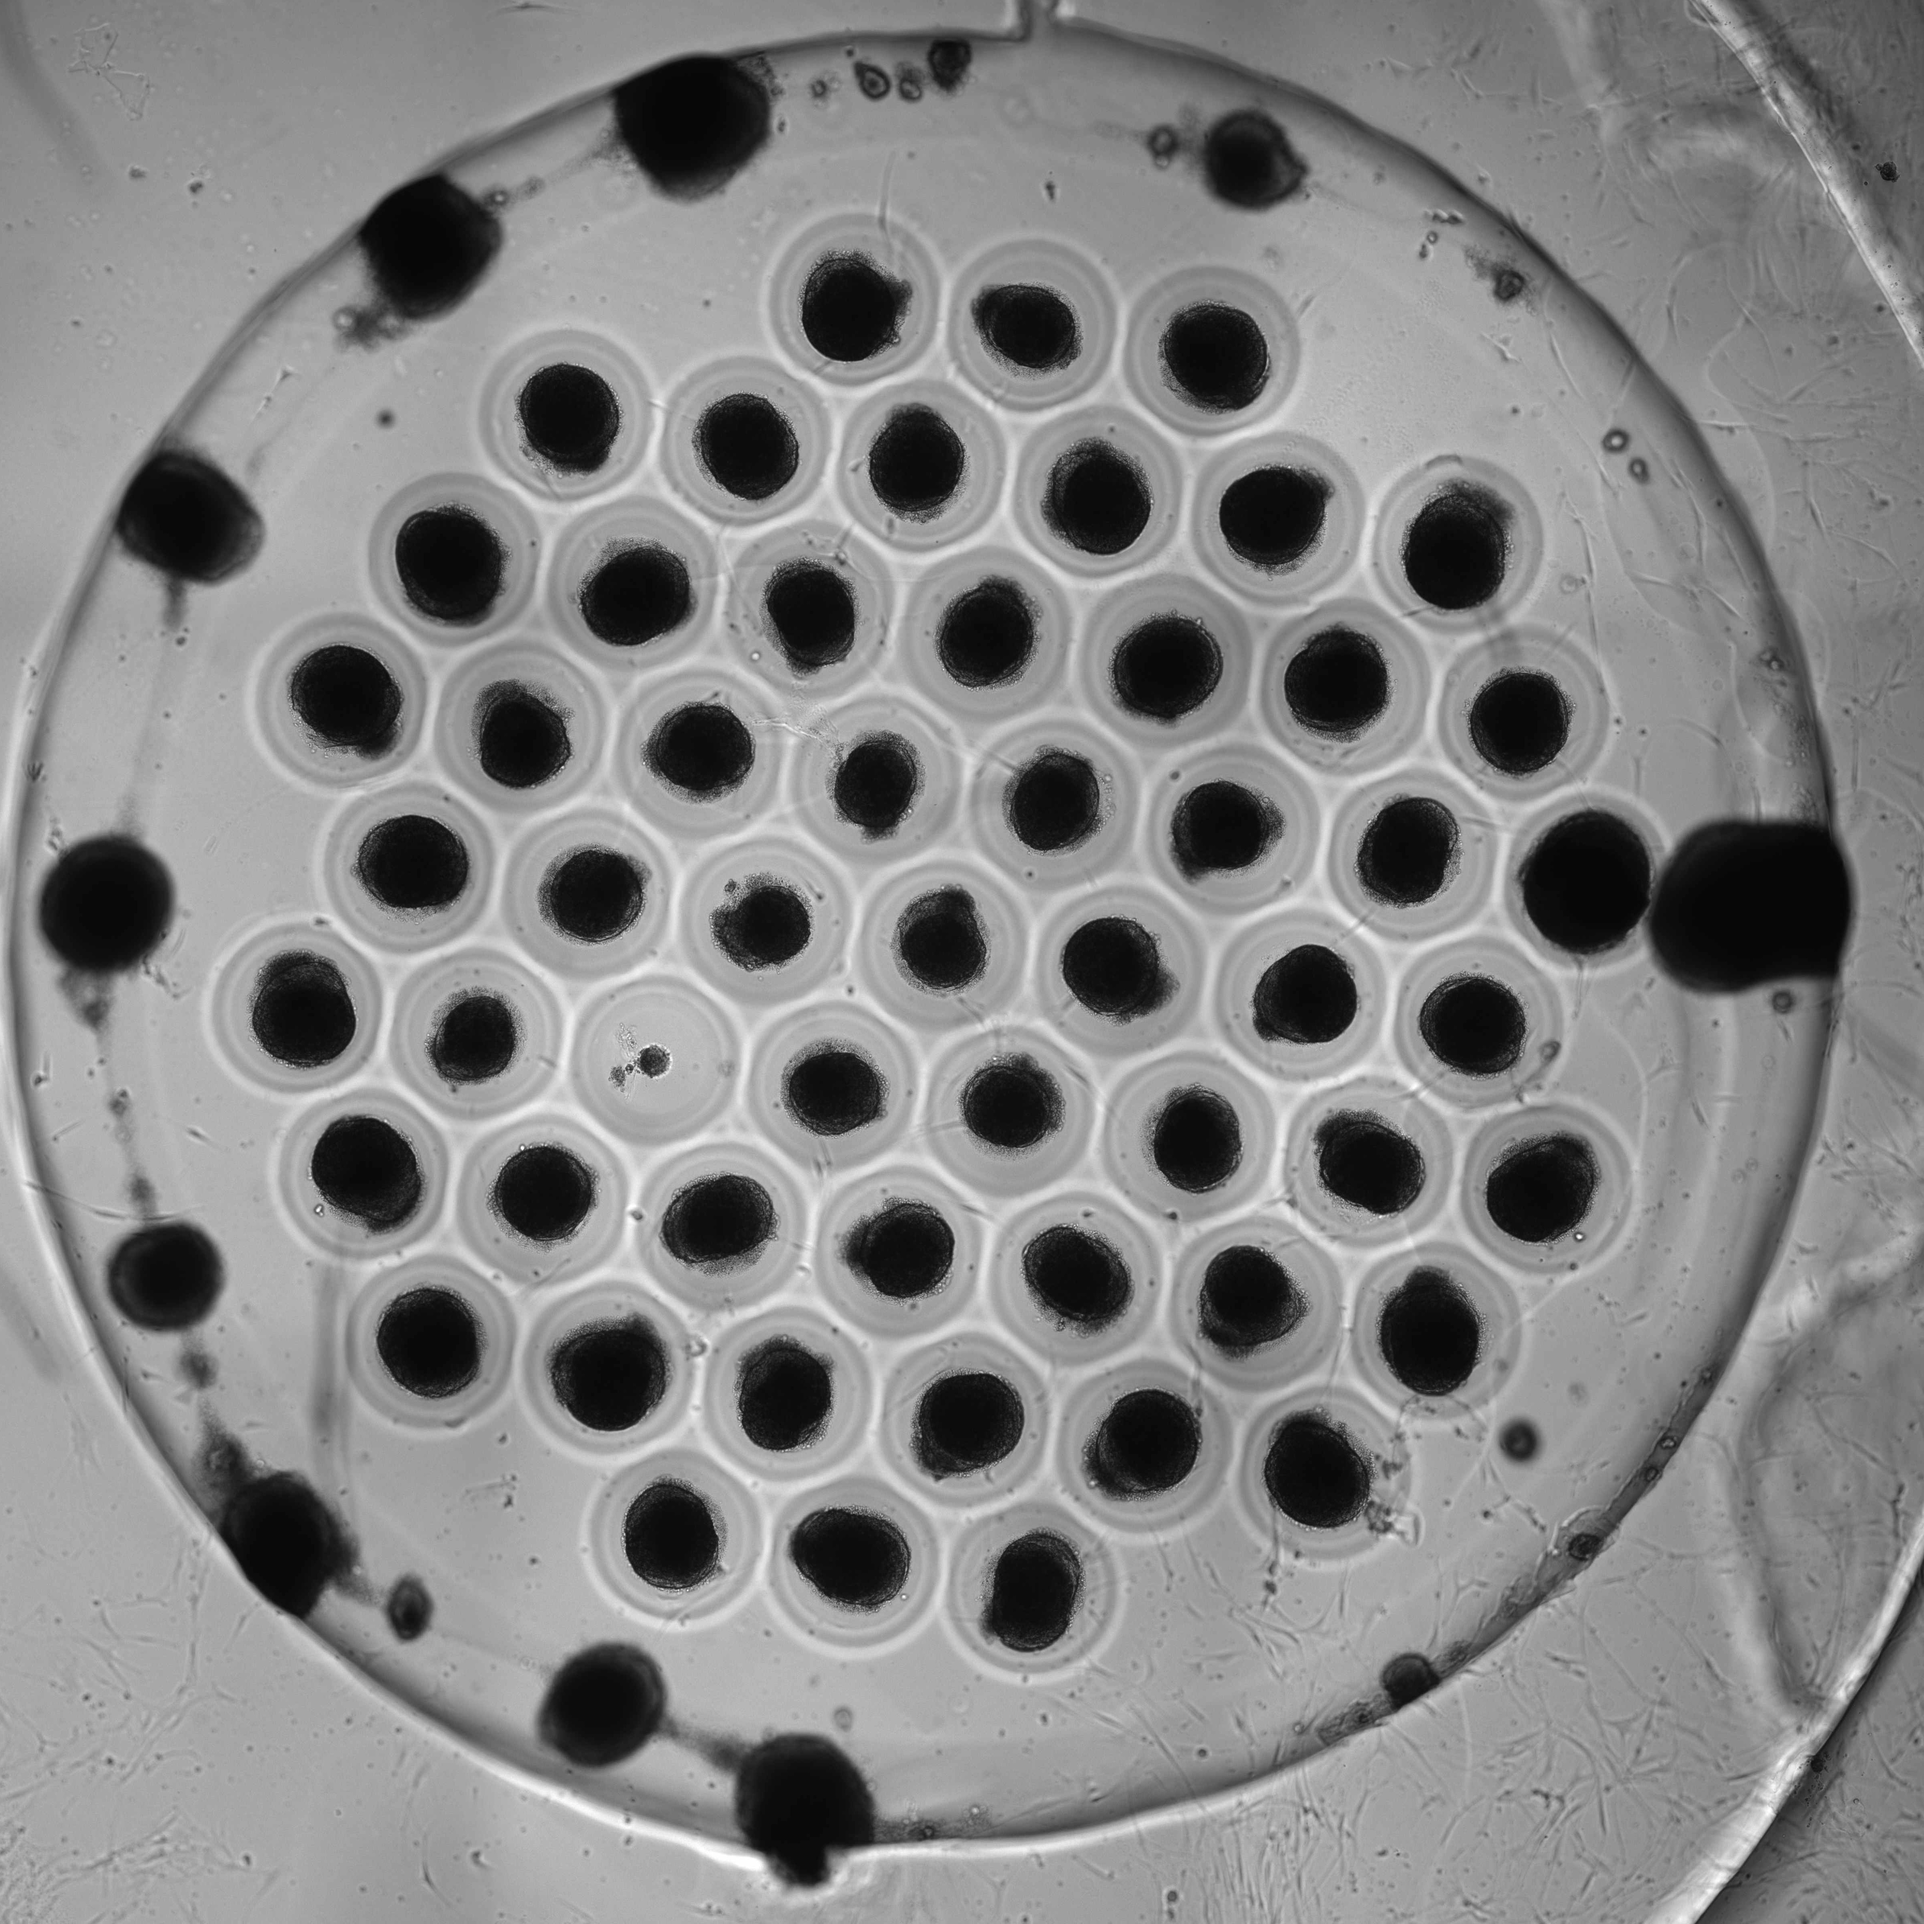
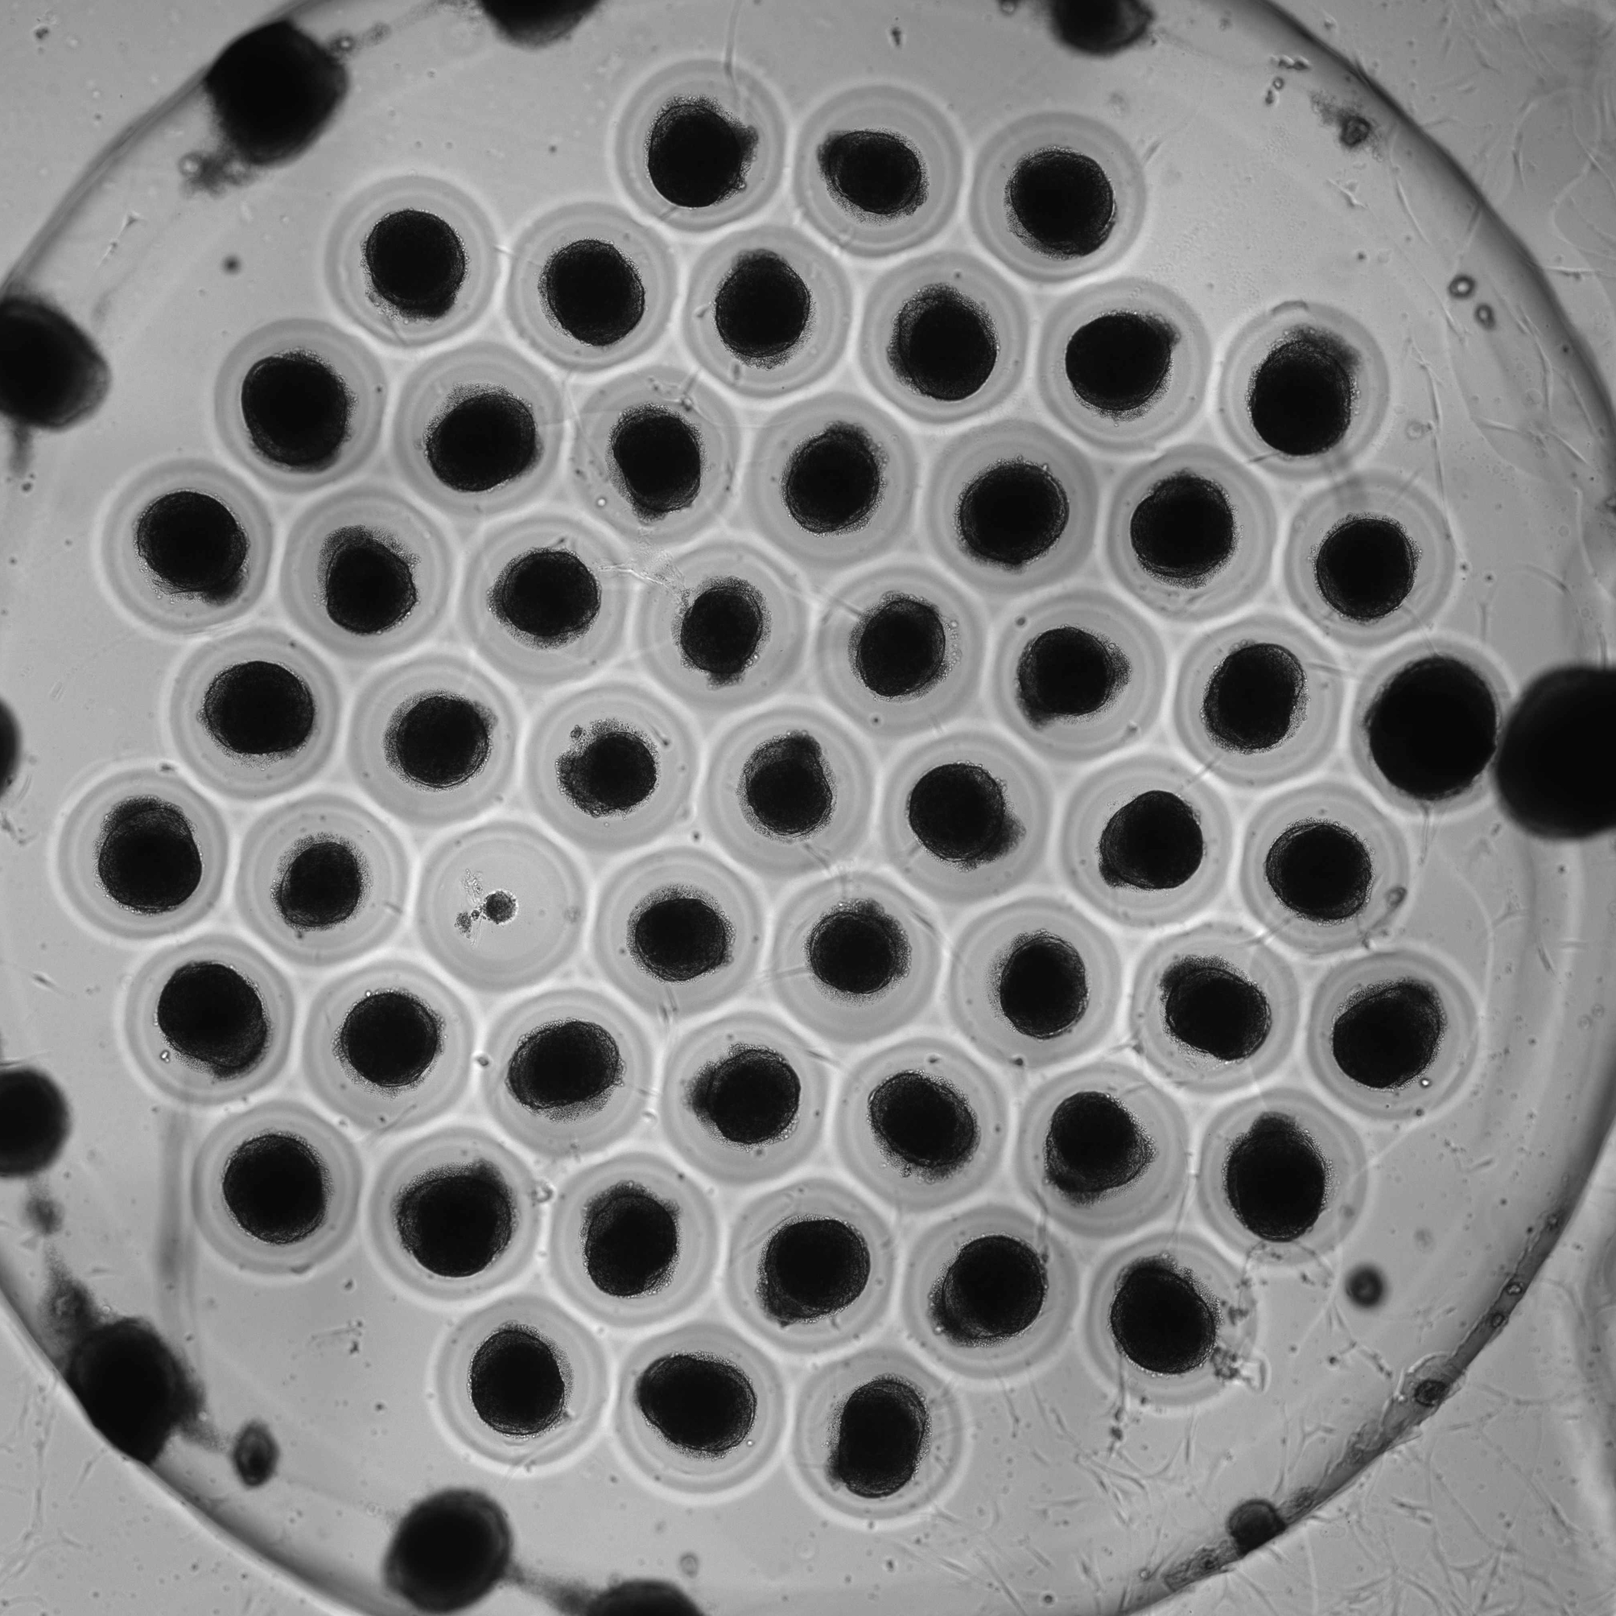
fine the the expansion ratio to fit perfectly the pattern

diff --git a/src/isac_newron.py b/src/isac_newron.py
@@ -167,7 +167,7 @@ def train_model(img_dir, mask_dir, epochs=25, lr=1e-3, batch_size=2, model_path=
 #     x1, x2, y1, y2 = xs.min(), xs.max(), ys.min(), ys.max()
 #     cropped = img[y1:y2, x1:x2]
 #     return cropped
-def predict_and_crop(model, image_path, size=256, threshold=0.5, expand_ratio=1.25):
+def predict_and_crop(model, image_path, size=256, threshold=0.5, expand_ratio=1.05):
     """
     Predict mask and crop around the *largest connected region*.
     - Keeps only the largest component.
